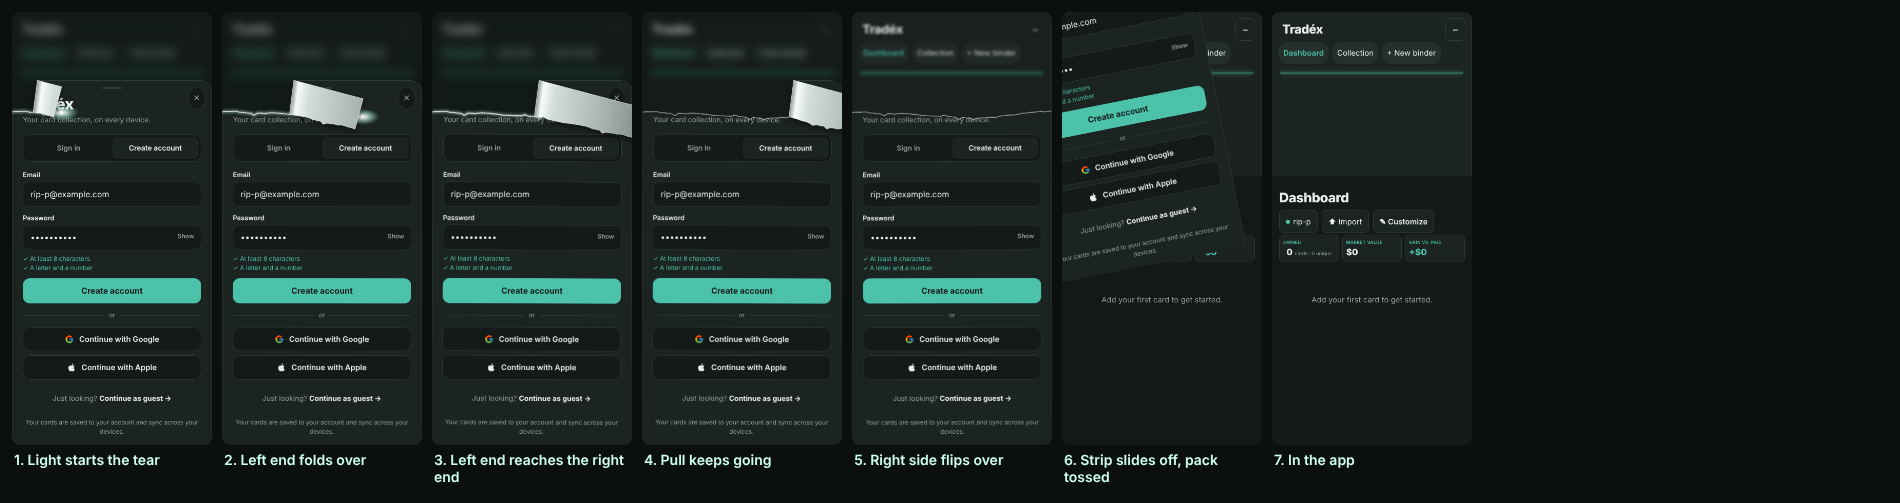
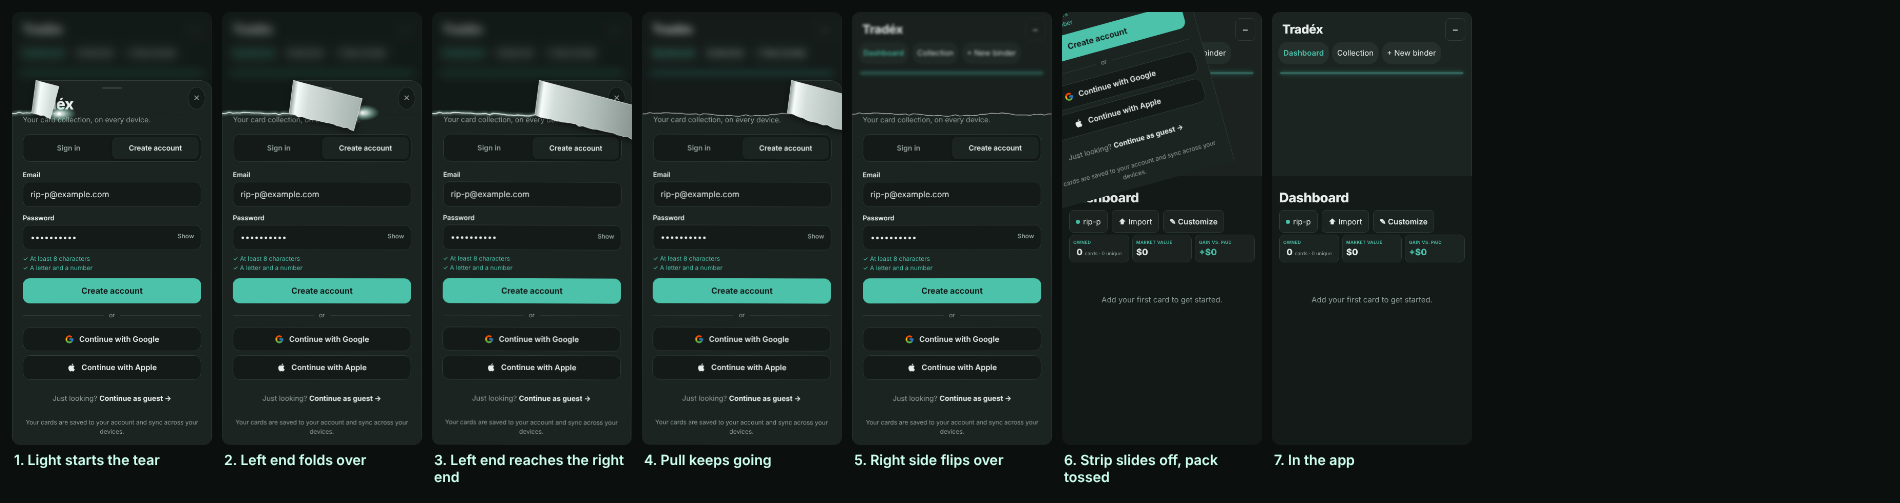
Set the rip 15% faster than the 1.15s version
Claude-Session: https://claude.ai/code/session_01K6ofJxh6QarDQ2gKnJ83gJ

diff --git a/js/account.js b/js/account.js
@@ -249,7 +249,7 @@ function lift(rip){const g=$('#txa');if(!g||g.classList.contains('clear'))return
   v.style.cssText=`position:absolute;left:0;top:0;width:100%;height:${cut+12}px;pointer-events:none;overflow:visible`;
   v.innerHTML=`<polyline points="${pts.map(([x,y])=>x+','+y).join(' ')}" fill="none" stroke="rgba(255,255,255,.6)" stroke-width="1.6" vector-effect="non-scaling-stroke" stroke-linejoin="bevel"/>`;return v};
  const at=x=>{for(let i=1;i<pts.length;i++)if(pts[i][0]>=x){const[a,b]=[pts[i-1],pts[i]];return b[0]===a[0]?b[1]:a[1]+(b[1]-a[1])*(x-a[0])/(b[0]-a[0])}return pts[pts.length-1][1]};
- const wrap=document.createElement('div'),SW=1000,W=r.width,PX=pts.map(([x,y])=>[x/100*W,y]);wrap.setAttribute('aria-hidden','true');
+ const wrap=document.createElement('div'),SW=980,W=r.width,PX=pts.map(([x,y])=>[x/100*W,y]);wrap.setAttribute('aria-hidden','true');
  Object.assign(wrap.style,{position:'fixed',left:r.left+'px',top:r.top+'px',width:W+'px',height:r.height+'px',pointerEvents:'none',zIndex:1,overflow:'visible',transformOrigin:`100% ${cut}px`});
  // The torn-off title strip stays one piece: the part not yet folded is the card itself, and the part folded over
  // is its mirror image across a slanted crease, drawn as the silver inside of the foil draping down over the right side.
